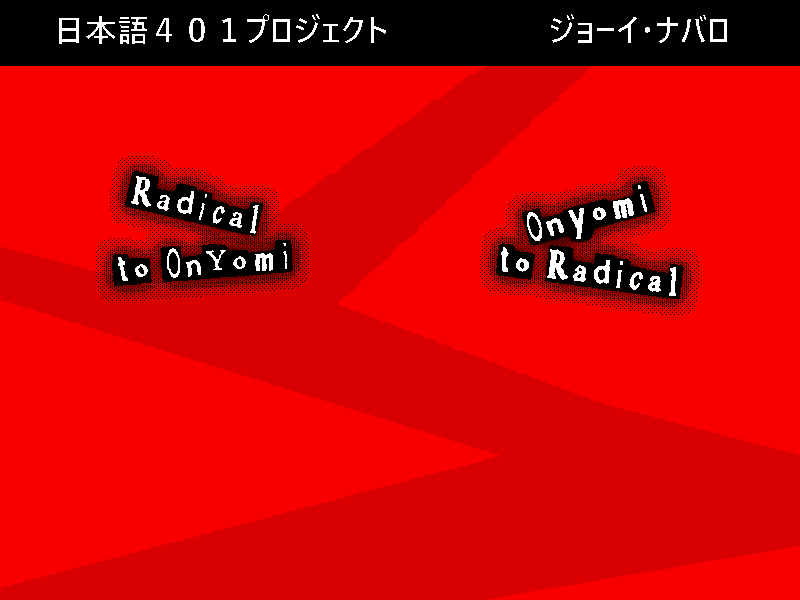
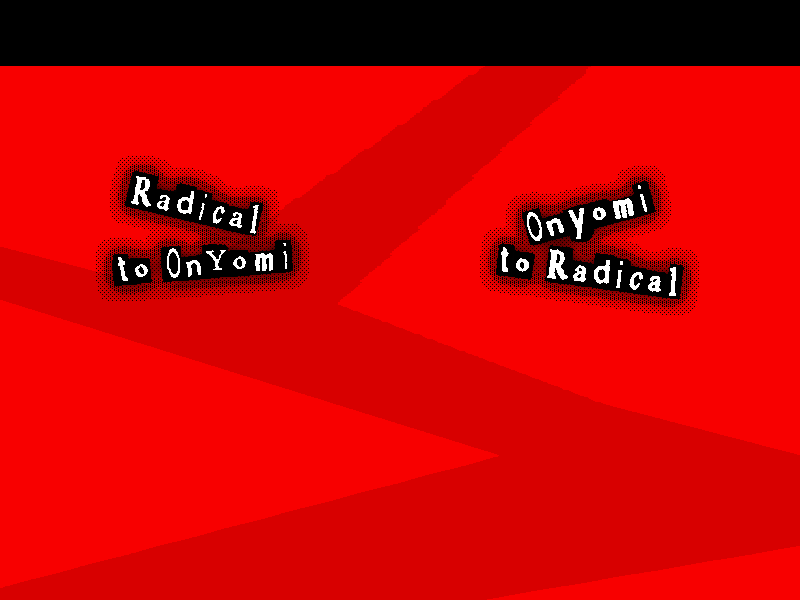
pygbag

Changed region(s): [[0.0625, 0.03, 0.4688, 0.09], [0.6875, 0.03, 0.9062, 0.09]]

diff --git a/main.py b/main.py
@@ -1,4 +1,5 @@
-#!usr/bin/env python
+#! /usr/bin/env python
+import asyncio
 import pygame, os
 from   pygame.locals import *
 from   constant      import *
@@ -255,8 +256,39 @@ class Main:
             self.update(e, mouseClick, tick)
             #print(self.mode)
             self.render()
+
+    async def asyncmain(self):
+        ## Main game loop
+        clock = self.clock
+        click_sound = self.click_sound
+        update = self.update
+        render = self.render
+
+        while True:
+            tick = clock.tick(FPS) / 1000.0
+            e    = pygame.event.get()
             
+            for ev in e:
+                if ev.type == pygame.MOUSEBUTTONDOWN:
+                    click_sound.play()
+                    self.mouse_animating = True
+                elif ev.type == pygame.MOUSEBUTTONUP:
+                    self.mouse_animating = False
+
+            if self.mouse_animating:
+                self.mouse_counter += tick * 16
+                if int(round(self.mouse_counter)) >= 3:
+                    self.mouse_animating = False
+                    self.mouse_counter = 0
+            
+            mouseClick = get_input(e) ## Get mouse coords on click
+            
+            update(e, mouseClick, tick)
+            #print(self.mode)
+            render()
+            await asyncio.sleep(0)
+
 
 if __name__ == "__main__":
     main = Main(1)
-    main.main()
+    asyncio.run(main.asyncmain())

diff --git a/utility.py b/utility.py
@@ -67,7 +67,8 @@ def get_input(events):
             ## Keypress processing
             if e.key == K_ESCAPE:
                 ## Press ESC to exit window
-                _quit()
+                pass
+                # _quit()
         
         elif e.type == MOUSEBUTTONDOWN:
             ## Get mouse pos on click
